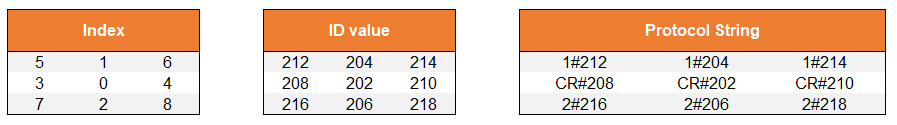
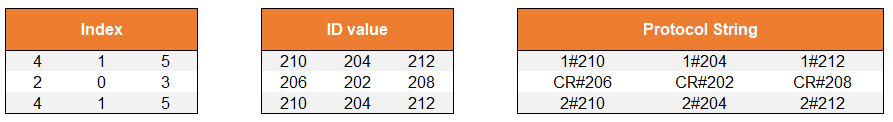
refact protocol and default actions & handle bytes received from uart

diff --git a/src/libs/Wagner/Wagner.cpp b/src/libs/Wagner/Wagner.cpp
@@ -12,24 +12,67 @@ Wagner::Wagner(unsigned int lm, Motor* motors) {
 	this->default_actions = new Action[QNT_DEFAULT_ACTIONS] {
 		Action(lm, new byte[lm] {0,0}),
 		Action(lm, new byte[lm] {100,100}),
-		Action(lm, new byte[lm] {100,100}),
 		Action(lm, new byte[lm] {0,100}),
 		Action(lm, new byte[lm] {100,0}),
-		Action(lm, new byte[lm] {20,100}),
-		Action(lm, new byte[lm] {100,20}),
-		Action(lm, new byte[lm] {20,100}),
-		Action(lm, new byte[lm] {100,20})
-	}
+		Action(lm, new byte[lm] {60,100}),
+		Action(lm, new byte[lm] {100,60})
+	};
 
 	this->setCurrentAction(&this->default_actions[ACTION_WALK_FORWARD]);
 }
 
-void Wagner::handleProtocolStringChanged(String value) {
-	// manipular string recebida por webservice/mqtt/bluetooth
-	// gerar um index para o vetor de actions default
+void Wagner::handleUARTByteReceived(byte received) {
+	static bool inProgress = false;
+	static char received_chars[UART_PROTOCOL_STRING_LENGTH];
+	static byte index = 0;
 
-	byte index = 0;
-	this->setCurrentAction(&this->default_actions[index]);
+	if (inProgress) {
+		if (received != UART_END_MARKER) {
+			received_chars[index] = received;
+			if ((++index) >= UART_PROTOCOL_STRING_LENGTH) {
+				index = UART_PROTOCOL_STRING_LENGTH - 1;
+			}
+		} else {
+			received_chars[index] = '\0';
+			inProgress = false;
+			index = 0;
+
+			this->handleProtocolStringChanged(received_chars);
+		}
+	} else if (received == UART_START_MARKER) {
+		inProgress = true;
+	}
+}
+
+void Wagner::handleProtocolStringChanged(String value) {
+	if (value.indexOf(UART_PROTOCOL_STRING_DELIMITER) == -1) {
+		Serial.println("ERROR -> void Wagner::handleProtocolStringChanged(String): invalid protocol string");
+		return;
+	}
+
+	String direction = value.substring(0, value.indexOf(UART_PROTOCOL_STRING_DELIMITER));
+	if (direction.length() == 1 || direction.length() == 2) {
+		if (direction.indexOf(UART_PROTOCOL_STRING_CURRENT_DIRECTION) == -1) {
+			this->direction = direction.toInt();
+		}
+	} else {
+		Serial.println("ERROR -> void Wagner::handleProtocolStringChanged(String): invalid direction");
+		return;
+	}
+
+	String code = value.substring(value.indexOf(UART_PROTOCOL_STRING_DELIMITER)+1, value.length());
+	if (code.length() == 3) {
+		int index = CONVERT_CODE_TO_ID(code.toInt());
+		if (index < 0 || index >= QNT_DEFAULT_ACTIONS) {
+			Serial.println("ERROR -> void Wagner::handleProtocolStringChanged(String): index out of range");
+			return;
+		}
+
+		this->setCurrentAction(&this->default_actions[index]);
+	} else {
+		Serial.println("ERROR -> void Wagner::handleProtocolStringChanged(String): invalid cod");
+		return;
+	}
 }
 
 void Wagner::setCurrentAction(Action* action)  {
@@ -38,7 +81,7 @@ void Wagner::setCurrentAction(Action* action)  {
 }
 
 void Wagner::random_decision_side() {
-	this->decision = random(7, 9);
+	this->decision = random(4, 6);
 	this->direction = -1;
 }
 

diff --git a/src/libs/Wagner/Wagner.h b/src/libs/Wagner/Wagner.h
@@ -5,9 +5,17 @@
 #include <Action.h>
 #include <Arduino.h>
 
+#define UART_START_MARKER '<'
+#define UART_END_MARKER '>'
+#define UART_PROTOCOL_STRING_LENGTH 7
+#define UART_PROTOCOL_STRING_DELIMITER '#'
+#define UART_PROTOCOL_STRING_CURRENT_DIRECTION "CR"
+
+#define CONVERT_CODE_TO_ID(code) ((code/2)-101)
+
 #define ACTION_STOP 0
 #define ACTION_WALK_FORWARD 1
-#define QNT_DEFAULT_ACTIONS 9
+#define QNT_DEFAULT_ACTIONS 6
 
 #define CONST_MAX_SPEED_VALUE 1023
 #define CONST_CN_MAX_DISTANCE 15.0
@@ -36,6 +44,7 @@ public:
 	Wagner(unsigned int,Motor*);
 	void drive(long);
 	void handleProtocolStringChanged(String);
+	void handleUARTByteReceived(byte);
 
 };
 
